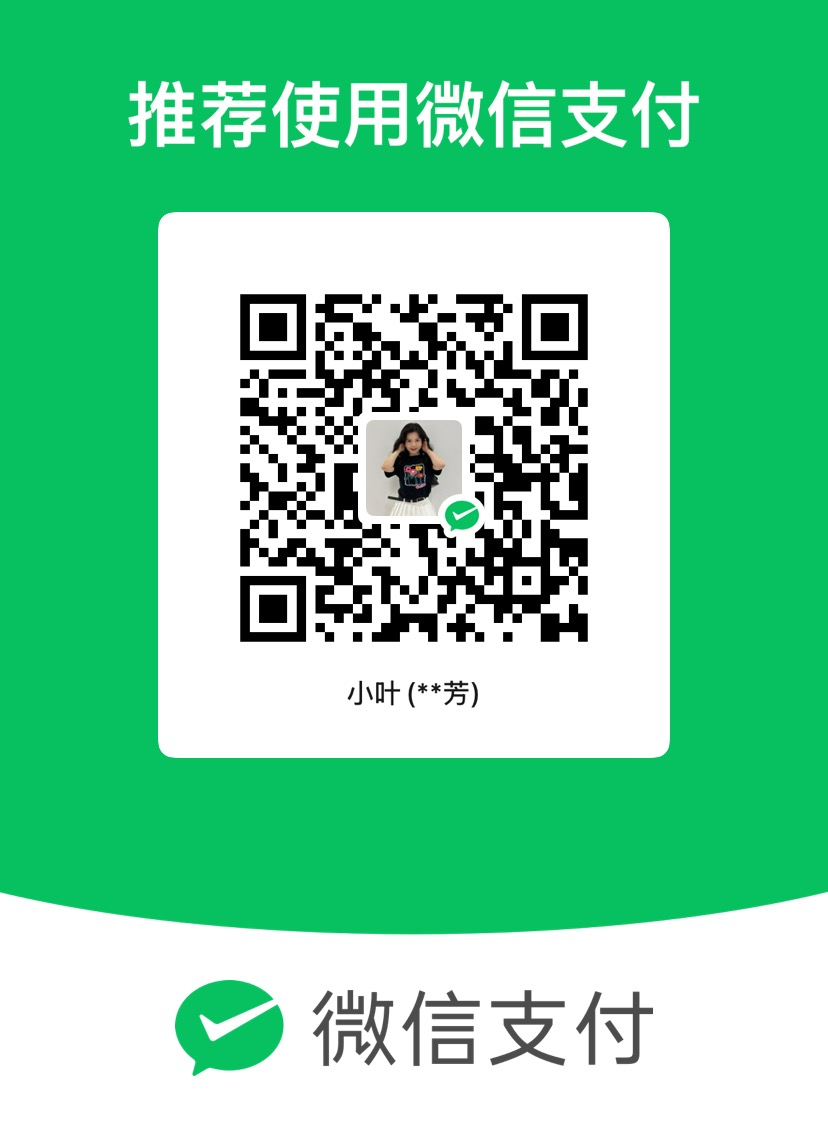
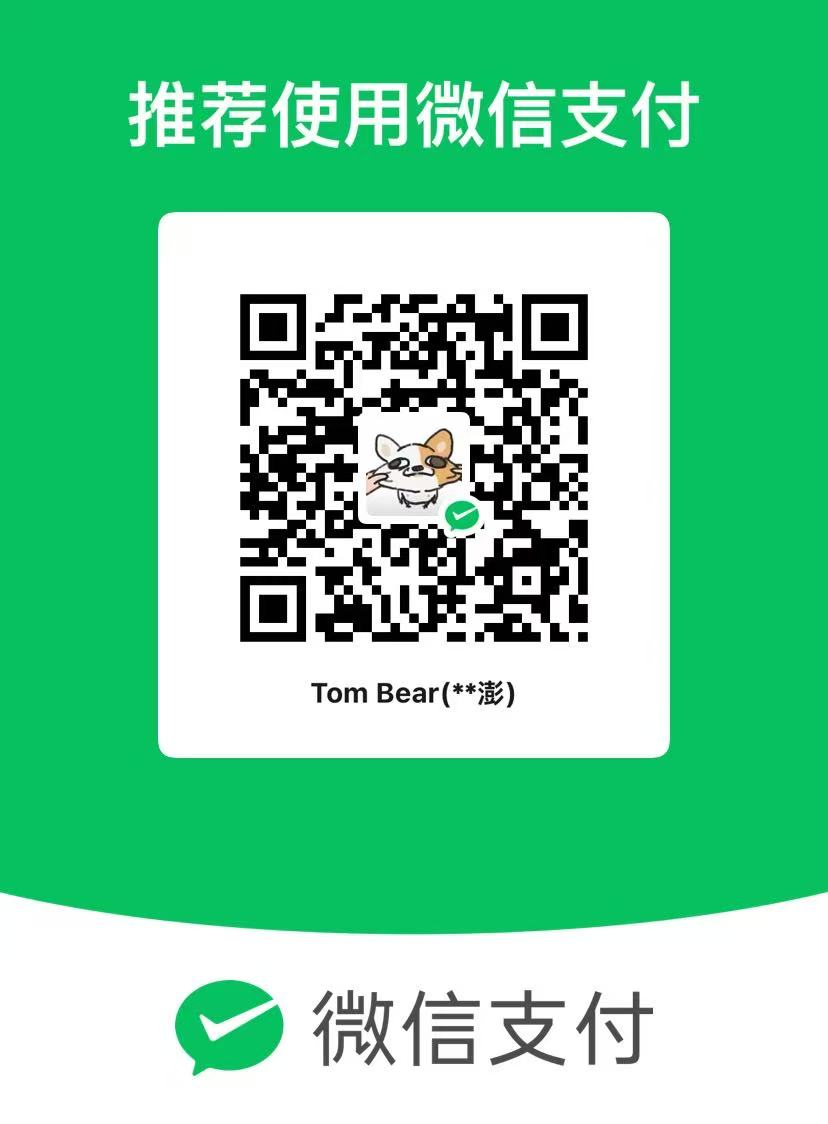
替换为正式商家微信收款码（测试码作废），图片引用升级?v=2强制刷新缓存

diff --git a/docs/js/app.js b/docs/js/app.js
@@ -645,7 +645,7 @@
         <tr><td>报告版本</td><td>${esc(order.reportVersion)}</td></tr>
       </table>
       <div style="text-align:center;margin-top:16px">
-        <img src="assets/wechat-qr.jpg" alt="微信收款码" style="width:200px;height:200px;object-fit:contain;border:1px solid #e5e9f2;border-radius:10px;background:#fff;padding:6px">
+        <img src="assets/wechat-qr.jpg?v=2" alt="微信收款码" style="width:200px;height:200px;object-fit:contain;border:1px solid #e5e9f2;border-radius:10px;background:#fff;padding:6px">
         <p style="font-size:13px;color:var(--gray);margin-top:10px">请使用微信「扫一扫」扫描上方收款码支付 <b style="color:var(--primary)">${fmtMoney(order.amount)}</b><br>付款时请备注订单号后四位，支付完成后点击下方按钮解锁内容</p>
       </div>
       <div class="modal-actions">

diff --git a/public/js/app.js b/public/js/app.js
@@ -645,7 +645,7 @@
         <tr><td>报告版本</td><td>${esc(order.reportVersion)}</td></tr>
       </table>
       <div style="text-align:center;margin-top:16px">
-        <img src="assets/wechat-qr.jpg" alt="微信收款码" style="width:200px;height:200px;object-fit:contain;border:1px solid #e5e9f2;border-radius:10px;background:#fff;padding:6px">
+        <img src="assets/wechat-qr.jpg?v=2" alt="微信收款码" style="width:200px;height:200px;object-fit:contain;border:1px solid #e5e9f2;border-radius:10px;background:#fff;padding:6px">
         <p style="font-size:13px;color:var(--gray);margin-top:10px">请使用微信「扫一扫」扫描上方收款码支付 <b style="color:var(--primary)">${fmtMoney(order.amount)}</b><br>付款时请备注订单号后四位，支付完成后点击下方按钮解锁内容</p>
       </div>
       <div class="modal-actions">
